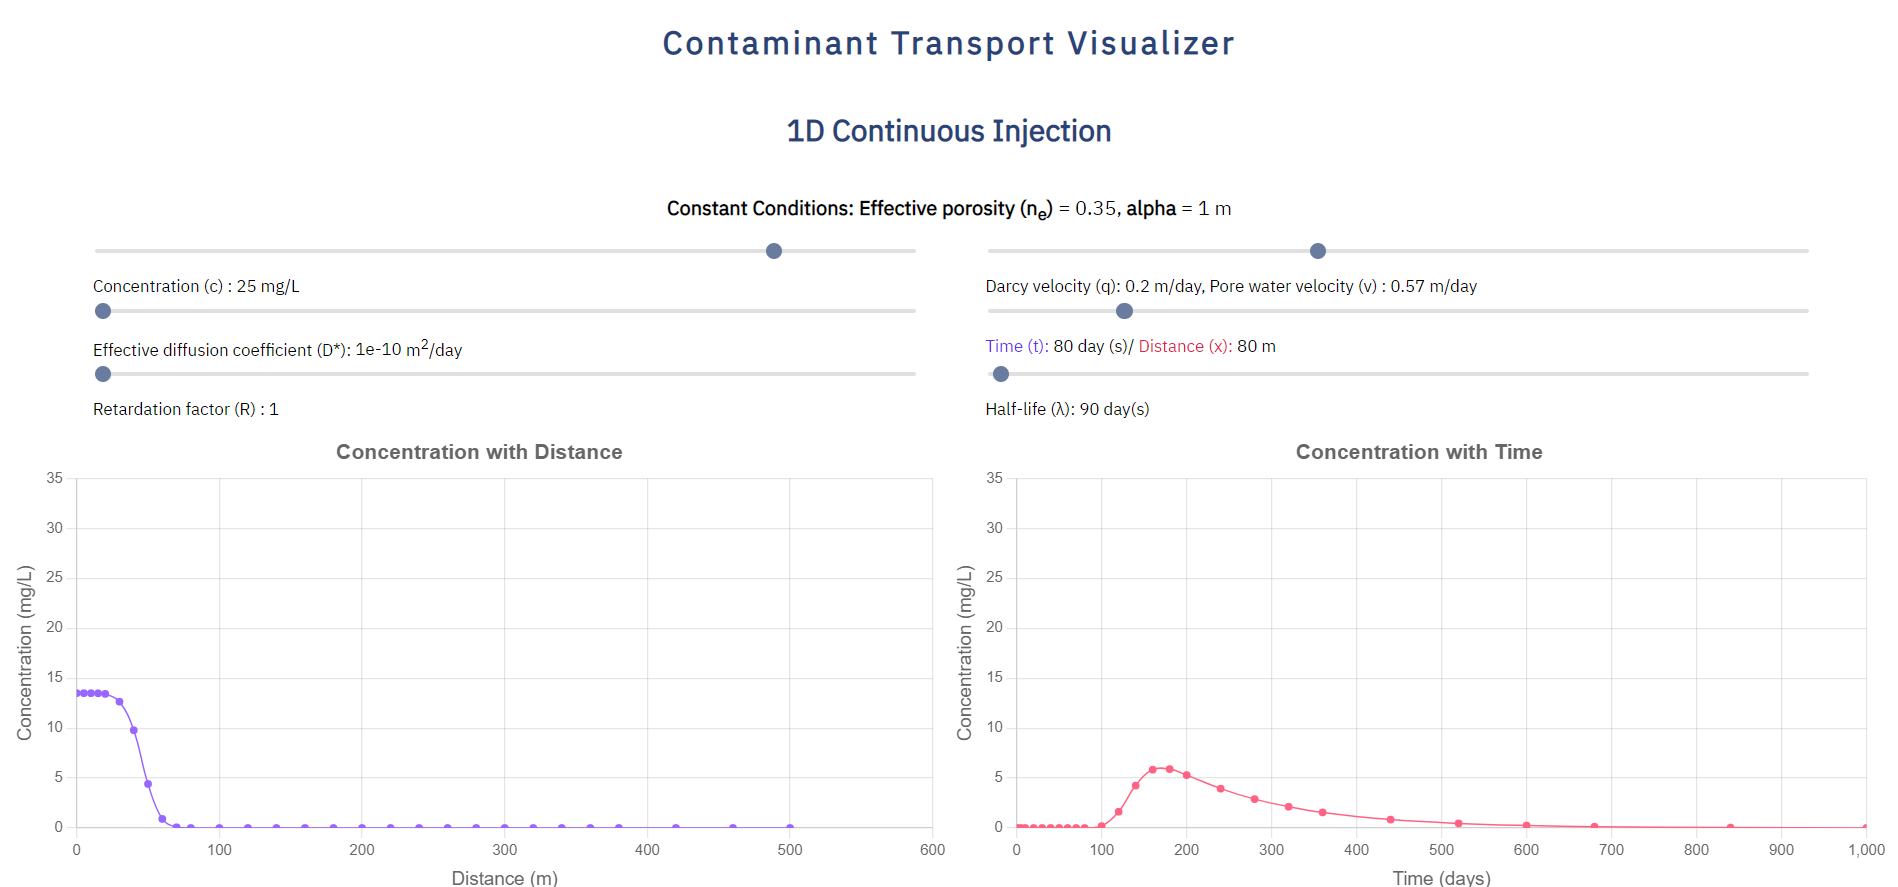
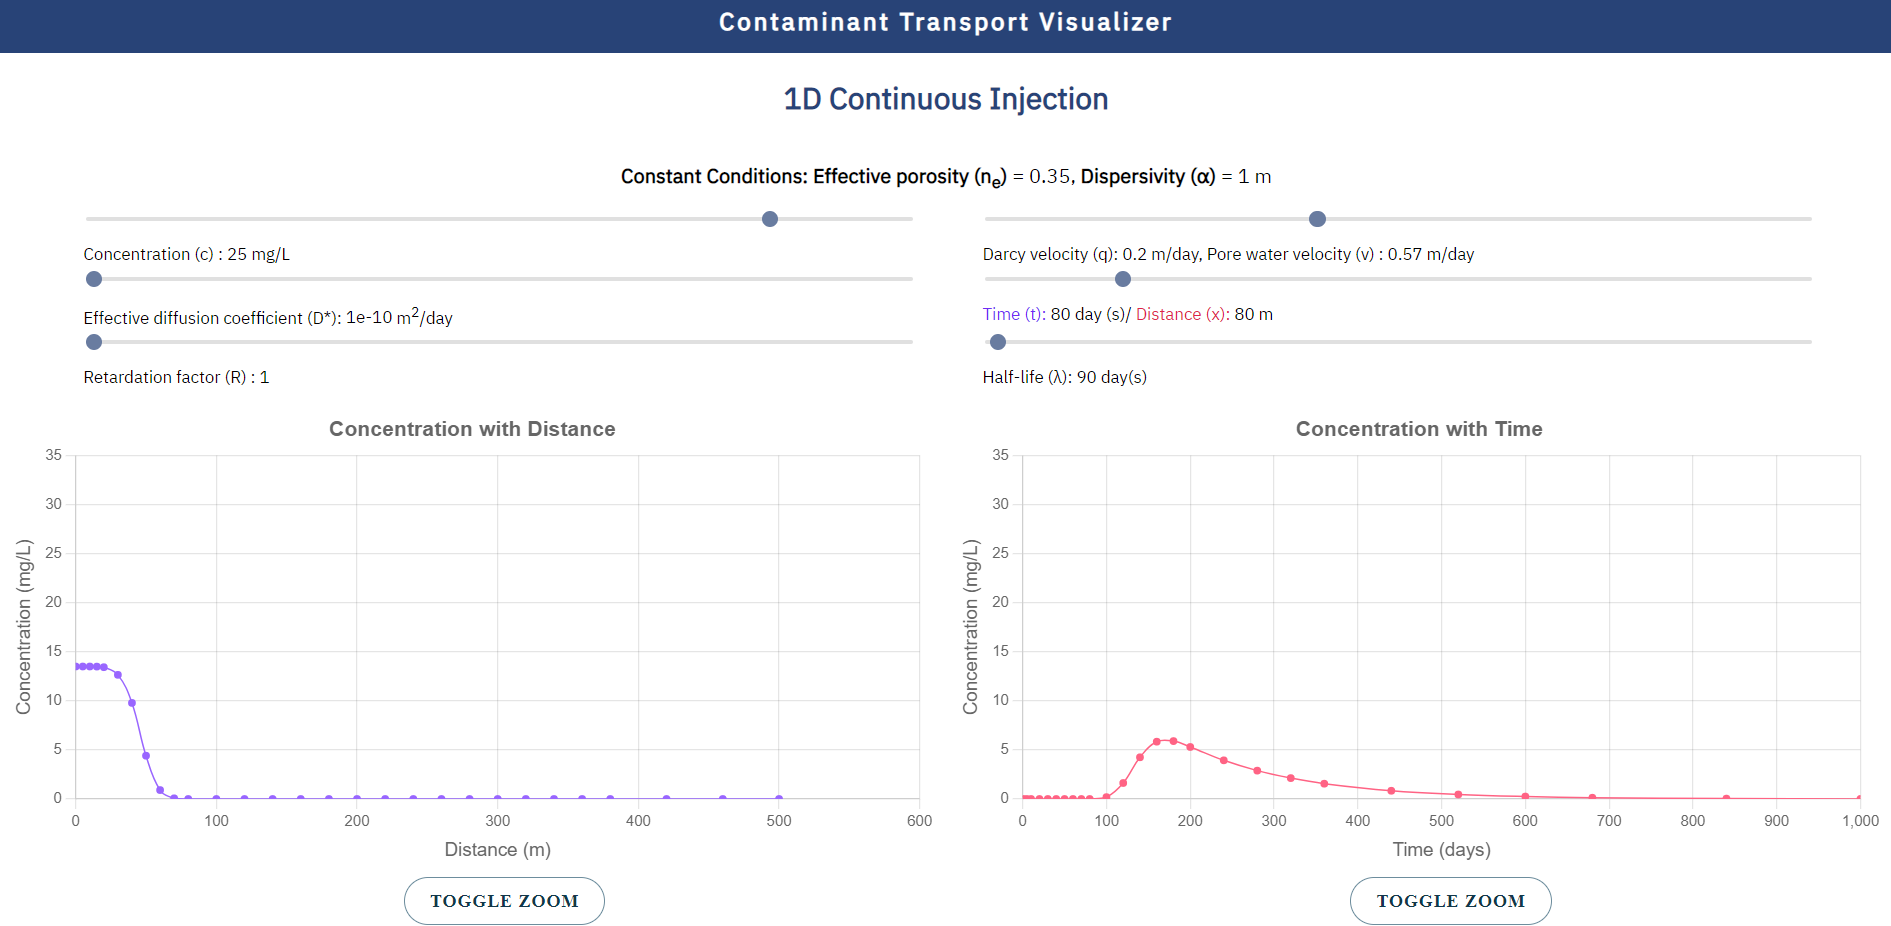
Add files via upload

diff --git a/info.html b/info.html
@@ -60,24 +60,59 @@
     </nav>
     <div class="mainMargin">
       <h2 id="header">How to Use the Visualizer</h2>
-      <p class="text">....to be completed</p>
+      <p class="text">
+        This website contains many visualizers to provide graphical
+        representation of mechanisms. By the help of slider, values can be
+        changed to study groundwater contamination under various subsurface
+        conditions such as retardation and first-order decay.
+      </p>
 
       <h3 id="highlight">Parameters</h3>
-      <p class="text"><b>Effective porosity (n<sub>e</sub>):</b></p>
       <p class="text">
-        <b>Longitudinal dispersivity (&alpha;<sub>x</sub>):</b>
+        <b>Effective porosity (n<sub>e</sub>):</b> The porosity through which
+        flow can occur. Noninterconnected and dead-end pores are not included in
+        the effective porosity.
       </p>
-      <p class="text"><b>Transverse dispersivity (&alpha;<sub>y</sub>):</b></p>
-      <p class="text"><b>Concentration(c):</b></p>
-      <p class="text"><b>Darcy velocity (q):</b></p>
-      <p class="text"><b>Pore water velocity(v):</b></p>
+      <p class="text">
+        <b>Longitudinal dispersivity (&alpha;<sub>x</sub>):</b> The mixing that
+        occurs along the direction of the flowpath because of invading
+        solute-containing water which does not travel at the same velocity.
+      </p>
+      <p class="text">
+        <b>Transverse dispersivity (&alpha;<sub>y</sub>):</b> The mixing that
+        occurs normal to the direction of the flowpath because of invading
+        solute-containing water that does not travel at the same velocity
+      </p>
+      <p class="text">
+        <b>Concentration(c):</b> The amount of a substance present in a defined
+        space.
+      </p>
+      <p class="text">
+        <b>Darcy velocity (q):</b> The volume of flow through a unit of
+        cross-sectional area
+      </p>
+      <p class="text">
+        <b>Pore water velocity(v):</b> The rate at which the flux of water
+        across the unit cross-sectional area of pore space occurs.
+      </p>
       <p class="text"><b>Effective diffusion coefficient (D*):</b></p>
-      <p class="text"><b>Time (t):</b></p>
-      <p class="text"><b>Distance (x):</b></p>
-      <p class="text"><b>y:</b></p>
-      <p class="text"><b>Area (a):</b></p>
-      <p class="text"><b>Retardation factor (R):</b></p>
-      <p class="text"><b>Half-life (&lambda;):</b></p>
+      <p class="text"><b>Time (t):</b> Measure the time taken by a process.</p>
+      <p class="text">
+        <b>Distance (x):</b> An amount of space between two things.
+      </p>
+      <p class="text"><b>y:</b> The y-axis</p>
+      <p class="text">
+        <b>Area (a):</b> The region bounded by the shape of an object
+      </p>
+      <p class="text">
+        <b>Retardation factor (R):</b> Due to sorption processes, some solutes
+        will move much more slowly through the aquifer than the ground water
+        that is transporting them; this effect is called retardation
+      </p>
+      <p class="text">
+        <b>Half-life (&lambda;):</b> The time required for a quantity to reduce
+        to half of its initial value.
+      </p>
     </div>
     <footer>
       <p class="text-center p-4 m-0">Copyright © 2022 All Rights Reserved</p>

diff --git a/style/visualStyle.css b/style/visualStyle.css
@@ -1,13 +1,121 @@
+/*Pre-loader*/
+.sk-chase {
+  width: 40px;
+  height: 40px;
+  position: absolute;
+  top: 48%;
+  left: 48%;
+  animation: sk-chase 2.5s infinite linear both;
+}
+
+.sk-chase-dot {
+  width: 100%;
+  height: 100%;
+  position: absolute;
+  left: 0;
+  top: 0;
+  animation: sk-chase-dot 2s infinite ease-in-out both;
+}
+
+.sk-chase-dot:before {
+  content: "";
+  display: block;
+  width: 25%;
+  height: 25%;
+  background-color: #fff;
+  border-radius: 100%;
+  animation: sk-chase-dot-before 2s infinite ease-in-out both;
+}
+
+.sk-chase-dot:nth-child(1) {
+  animation-delay: -1.1s;
+}
+.sk-chase-dot:nth-child(2) {
+  animation-delay: -1s;
+}
+.sk-chase-dot:nth-child(3) {
+  animation-delay: -0.9s;
+}
+.sk-chase-dot:nth-child(4) {
+  animation-delay: -0.8s;
+}
+.sk-chase-dot:nth-child(5) {
+  animation-delay: -0.7s;
+}
+.sk-chase-dot:nth-child(6) {
+  animation-delay: -0.6s;
+}
+.sk-chase-dot:nth-child(1):before {
+  animation-delay: -1.1s;
+}
+.sk-chase-dot:nth-child(2):before {
+  animation-delay: -1s;
+}
+.sk-chase-dot:nth-child(3):before {
+  animation-delay: -0.9s;
+}
+.sk-chase-dot:nth-child(4):before {
+  animation-delay: -0.8s;
+}
+.sk-chase-dot:nth-child(5):before {
+  animation-delay: -0.7s;
+}
+.sk-chase-dot:nth-child(6):before {
+  animation-delay: -0.6s;
+}
+
+@keyframes sk-chase {
+  100% {
+    transform: rotate(360deg);
+  }
+}
+
+@keyframes sk-chase-dot {
+  80%,
+  100% {
+    transform: rotate(360deg);
+  }
+}
+
+@keyframes sk-chase-dot-before {
+  50% {
+    transform: scale(0.4);
+  }
+  100%,
+  0% {
+    transform: scale(1);
+  }
+}
+
+.spinner-wrapper {
+  position: fixed;
+  top: 0;
+  left: 0;
+  right: 0;
+  bottom: 0;
+  background-color: #2b3137;
+  z-index: 999999;
+}
+
 body{
     display: flex;
     align-items: center;
     justify-content: center;
     flex-direction: column;
     font-family: "IBM Plex Sans", sans-serif;
+    margin: 0;
+    margin-bottom: 2%;
 }
 
 h1{
-  font-size: 160%;
+  font-size: 120%;
+  color:white;
+}
+
+#top{
+  background-color: #284377;
+  width: 100%;
+  text-align: center;
 }
 
 .pink{
@@ -88,7 +196,7 @@ color:#284377;
   height: 2px;
   left: 50%;
   position: absolute;
-  background: rgb(0, 0, 0);
+  background: rgb(255, 255, 255);
   transition: width 0.3s ease 0s, left 0.3s ease 0s;
   width: 0;
 }
@@ -233,6 +341,7 @@ color:#284377;
 
 #canvas1, #canvas2{
   width:100%;
+  margin: 1%;
 }
 .myCanvas{
     width: 100%;

diff --git a/about.html b/about.html
@@ -71,20 +71,20 @@
         mitigation techniques.
       </p>
       <p class="text">
-        This work was done under the supervision of Professor Magdalena Krol and
-        Reza Rahimi. Professor Krol is an expert in contaminant hydrogeology
-        with an emphasis on modelling thermal remediation. This work obtained
-        funding from the Lassonde School of Engineering through Lassonde
-        Undergraduate Research Award.
+        This work was done under the supervision of Professor Magdalena Krol.
+        Professor Krol is an expert in contaminant hydrogeology with an emphasis
+        on modelling thermal remediation. This work obtained funding from the
+        Lassonde School of Engineering through Lassonde Undergraduate Research
+        Award.
       </p>
 
       <div class="container">
         <img id="visual" src="./images/visual.png" alt="" />
       </div>
       <p class="text">
-        Thanks to Professor Magdalena Krol and Reza Rahimi for supervising the
-        work on this project and offering assistance throughout the entire
-        process.
+        Thanks to Professor Magdalena Krol for supervising the work on this
+        project and offering assistance throughout the entire process. Thanks to
+        Reza Rahimi for helping me with data collection.
       </p>
       <h3 id="highlight">Disclaimer</h3>
       <p class="text">

diff --git a/continuousTD.html b/continuousTD.html
@@ -20,9 +20,23 @@
     <title>My Chart</title>
   </head>
   <body>
-    <a id="header" href="index.html"
-      ><h1>Contaminant Transport Visualizer</h1></a
-    >
+    <!-- preloader -->
+    <div class="spinner-wrapper">
+      <div class="sk-chase">
+        <div class="sk-chase-dot"></div>
+        <div class="sk-chase-dot"></div>
+        <div class="sk-chase-dot"></div>
+        <div class="sk-chase-dot"></div>
+        <div class="sk-chase-dot"></div>
+        <div class="sk-chase-dot"></div>
+      </div>
+    </div>
+
+    <div id="top">
+      <a id="header" href="index.html"
+        ><h1>Contaminant Transport Visualizer</h1></a
+      >
+    </div>
 
     <h2>1D Continuous Injection</h2>
 

diff --git a/slugTT.html b/slugTT.html
@@ -20,9 +20,23 @@
     <title>My Chart</title>
   </head>
   <body>
-    <a id="header" href="index.html"
-      ><h1>Contaminant Transport Visualizer</h1></a
-    >
+    <!-- preloader -->
+    <div class="spinner-wrapper">
+      <div class="sk-chase">
+        <div class="sk-chase-dot"></div>
+        <div class="sk-chase-dot"></div>
+        <div class="sk-chase-dot"></div>
+        <div class="sk-chase-dot"></div>
+        <div class="sk-chase-dot"></div>
+        <div class="sk-chase-dot"></div>
+      </div>
+    </div>
+
+    <div id="top">
+      <a id="header" href="index.html"
+        ><h1>Contaminant Transport Visualizer</h1></a
+      >
+    </div>
 
     <h2>2D Slug Injection</h2>
 

diff --git a/index.html b/index.html
@@ -91,9 +91,9 @@
         </button>
       </nav>
       <p class="text">
-        In addition to the analytical solution, the user can change values using
-        sliders to study groundwater contamination under various subsurface
-        conditions such as retardation and first-order decay.
+        In addition to the analytical solution, the user can change values to
+        study groundwater contamination under various subsurface conditions such
+        as retardation and first-order decay.
       </p>
       <div class="container">
         <img

diff --git a/script/continuousTD.js b/script/continuousTD.js
@@ -1,3 +1,10 @@
+//preloader
+var loader = setInterval(function () {
+  if(document.readyState !== "complete") return;
+  clearInterval(loader);
+  document.querySelector('.spinner-wrapper').style.display = "none";
+}, 250);
+
 function ERFC(value1){
   return 1-math.erf(value1);
 }

diff --git a/script/slugTT.js b/script/slugTT.js
@@ -1,3 +1,10 @@
+//preloader
+var loader = setInterval(function () {
+  if(document.readyState !== "complete") return;
+  clearInterval(loader);
+  document.querySelector('.spinner-wrapper').style.display = "none";
+}, 250);
+
 function ERFC(value1){
   return 1-math.erf(value1);
 }

diff --git a/style/index.css b/style/index.css
@@ -9,6 +9,10 @@ body {
   margin-top: 2%;
 }
 
+.navbar-brand{
+  font-weight:500;
+}
+
 footer{
   background-color: #284377;
   color:white;
@@ -81,7 +85,7 @@ footer{
 
 @media screen and (max-width: 1220px){
   .mainMargin{
-    width:100%;
+    width:95%;
   }
 }
 
